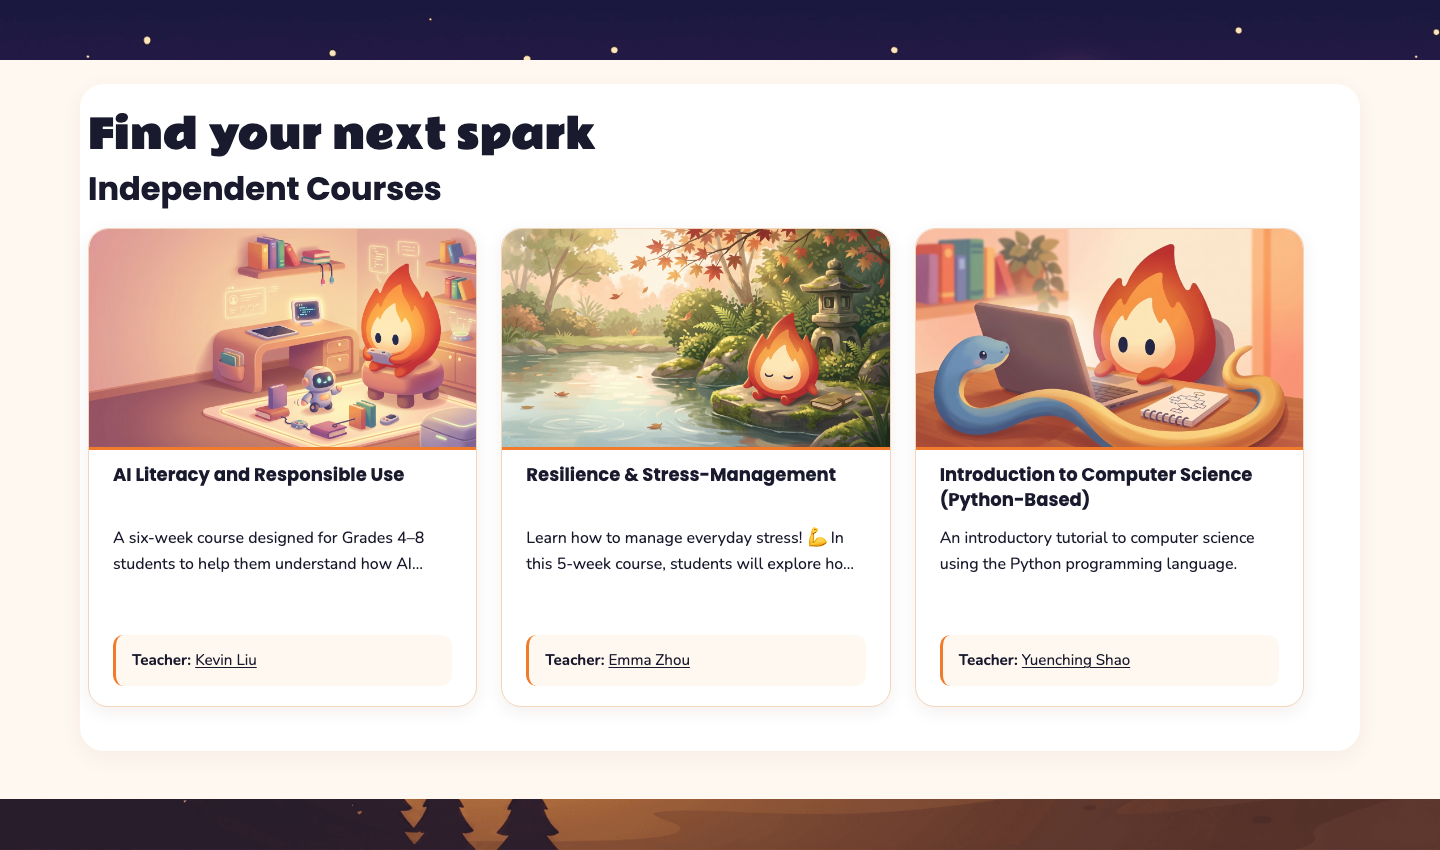
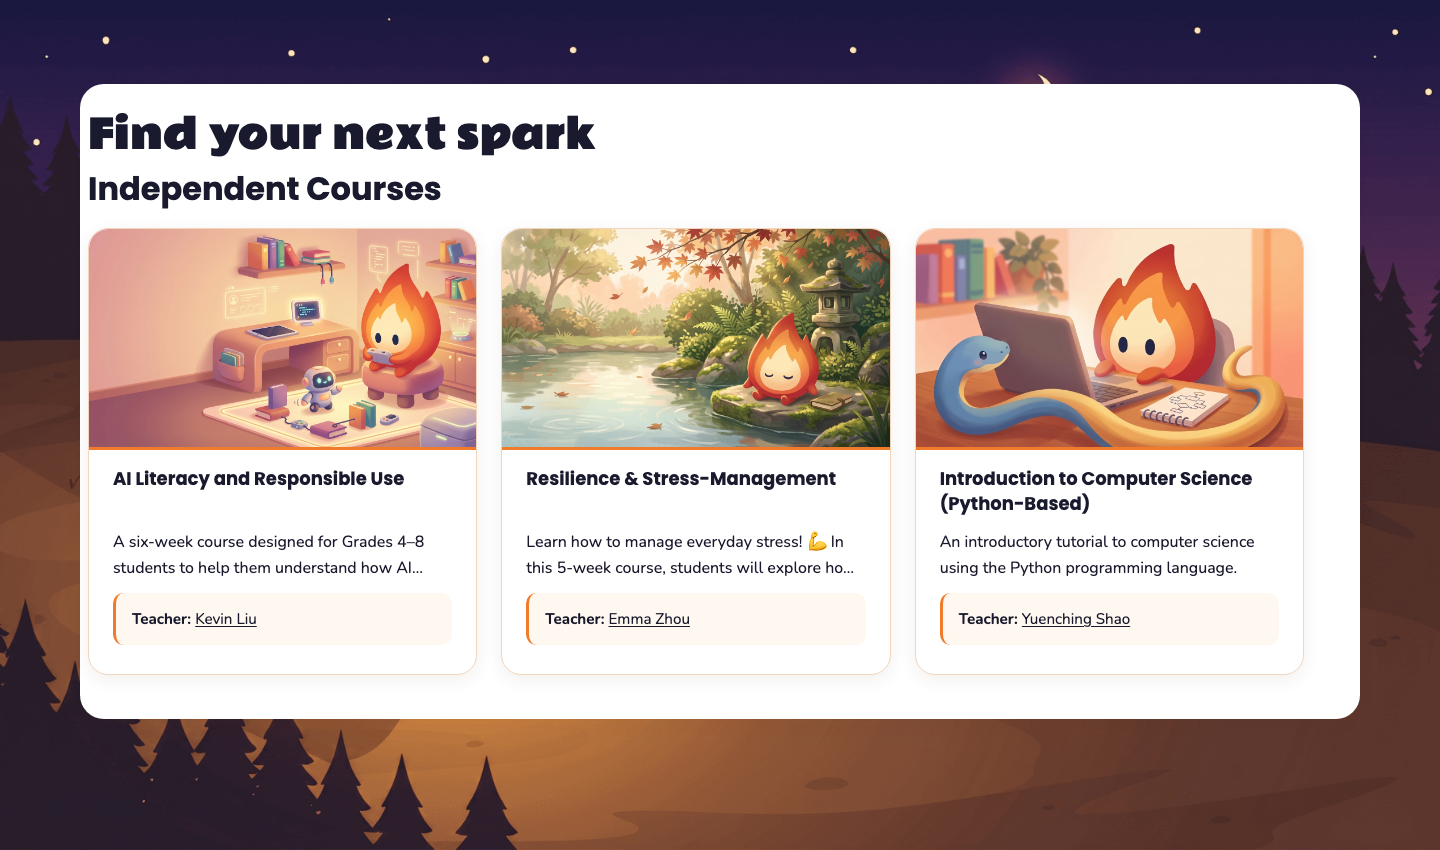
siguma

diff --git a/moodle/raw.scss b/moodle/raw.scss
@@ -36,18 +36,19 @@ $ignite-catalog-link: #A63B00; // Existing preset's accessible orange link shade
 $ignite-catalog-border: #F2D5BB;
 $ignite-catalog-body: "Nunito", -apple-system, BlinkMacSystemFont, "Segoe UI", Arial, sans-serif;
 $ignite-catalog-heading: "Poppins", "Segoe UI", Arial, sans-serif;
-$ignite-catalog-title-height: 4.5rem;
-$ignite-catalog-details-height: 11.5rem;
+$ignite-catalog-title-height: 4.75rem;
+$ignite-catalog-details-height: 9.25rem;
+$ignite-catalog-extra-details-height: 11.5rem;
 $ignite-catalog-description-lines: 2;
 
 // Exact body IDs exclude activities, quizzes, grades, course management and admin.
 #page-course-index,
 #page-course-index-category,
 #page-course-search {
-    background-color: $ignite-catalog-cream;
+    background-color: #fff5e8;
 
     #page.drawers {
-        background-color: $ignite-catalog-cream;
+        background-color: transparent;
     }
 
     #page.drawers .main-inner {
@@ -147,6 +148,13 @@ $ignite-catalog-description-lines: 2;
         // the same card width as a full row. Paging remains full-width.
         .course_category_tree .courses,
         .courses.course-search-result {
+            --ignite-catalog-details-height: #{$ignite-catalog-details-height};
+            // Reserve extra room consistently across a listing when Moodle
+            // supplies category labels or custom fields (as in search results).
+            &:has(.coursecat, .customfields-container) {
+                --ignite-catalog-details-height: #{$ignite-catalog-extra-details-height};
+            }
+
             display: grid;
             grid-template-columns: repeat(auto-fill, minmax(min(100%, 18rem), 1fr));
             align-items: start;
@@ -175,7 +183,7 @@ $ignite-catalog-description-lines: 2;
                 grid-template-columns: minmax(0, 1fr);
                 // Equal text panels keep cards aligned without a large empty tail.
                 // Total height follows the responsive 16:9 cover plus these panels.
-                grid-template-rows: auto $ignite-catalog-title-height $ignite-catalog-details-height;
+                grid-template-rows: auto $ignite-catalog-title-height var(--ignite-catalog-details-height);
                 min-width: 0;
                 // Extra overview images/files stay accessible below the main panels.
                 overflow: auto;
@@ -209,7 +217,7 @@ $ignite-catalog-description-lines: 2;
                     align-items: flex-start;
                     gap: .5rem;
                     min-width: 0;
-                    margin: .75rem 1.25rem .5rem;
+                    margin: 1rem 1.25rem .5rem;
                     padding-inline: .25rem;
 
                     > .coursename {
@@ -381,7 +389,7 @@ $ignite-catalog-description-lines: 2;
                     display: grid;
                     gap: .5rem;
                     margin: .75rem 0;
-                    margin-top: auto;
+                    margin-top: 0;
                     padding: .85rem 1rem;
                     border-inline-start: 3px solid $ignite-catalog-orange;
                     border-radius: .65rem;
@@ -454,5 +462,36 @@ $ignite-catalog-description-lines: 2;
             padding-inline: 1rem;
             border-radius: 1rem;
         }
+    }
+}
+
+// Use the image uploaded in Boost > General settings > Background image.
+// Boost supplies background-image; these properties prevent tiling and seams.
+// "cover" preserves the artwork's proportions and may crop its edges.
+// Boost 5.2 supplies the General background image only at widths >= 768px;
+// smaller screens use the fallback colour unless an image rule is configured.
+body {
+    background-color: #fff5e8;
+    background-size: cover;
+    background-repeat: no-repeat;
+    background-position: center center;
+    background-attachment: fixed;
+}
+
+// Reveal the same background around the preset's white learner content panels.
+#page-site-index,
+#page-my-index,
+#page-my-indexsys,
+#page-my-courses {
+    background-color: #fff5e8;
+
+    #page.drawers {
+        background-color: transparent;
+    }
+}
+
+@media (prefers-reduced-motion: reduce) {
+    body {
+        background-attachment: scroll;
     }
 }
